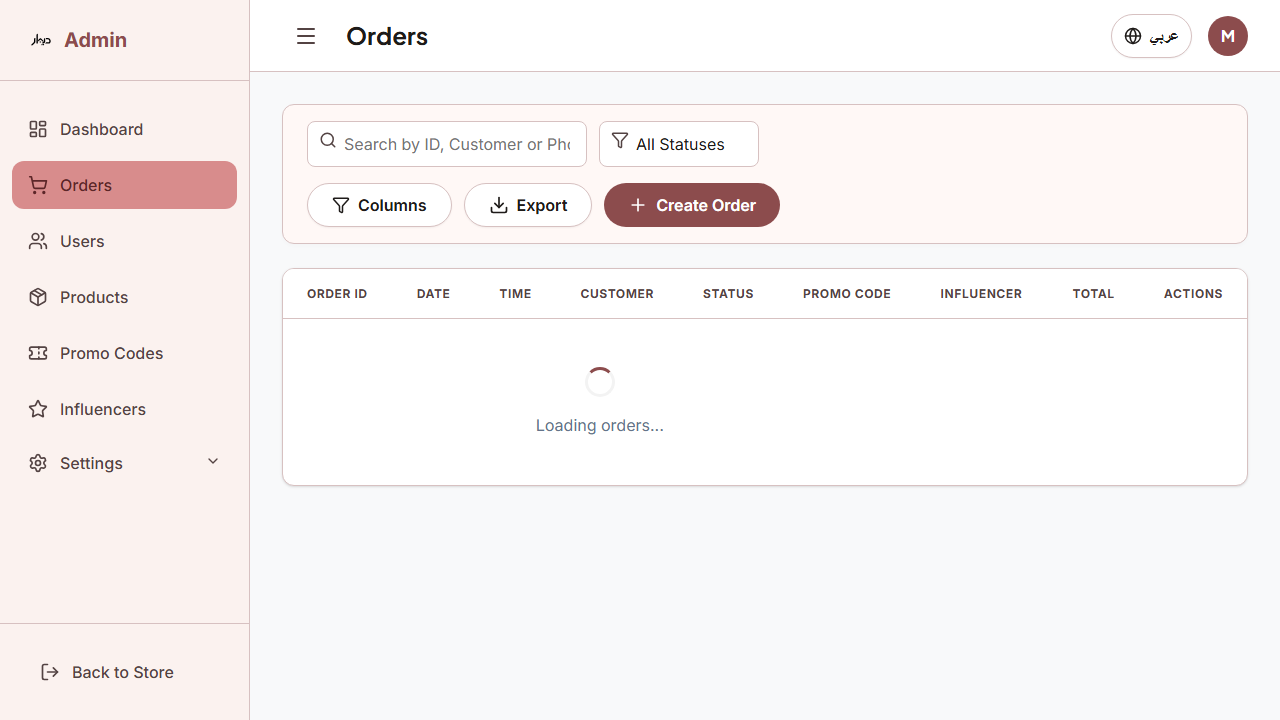
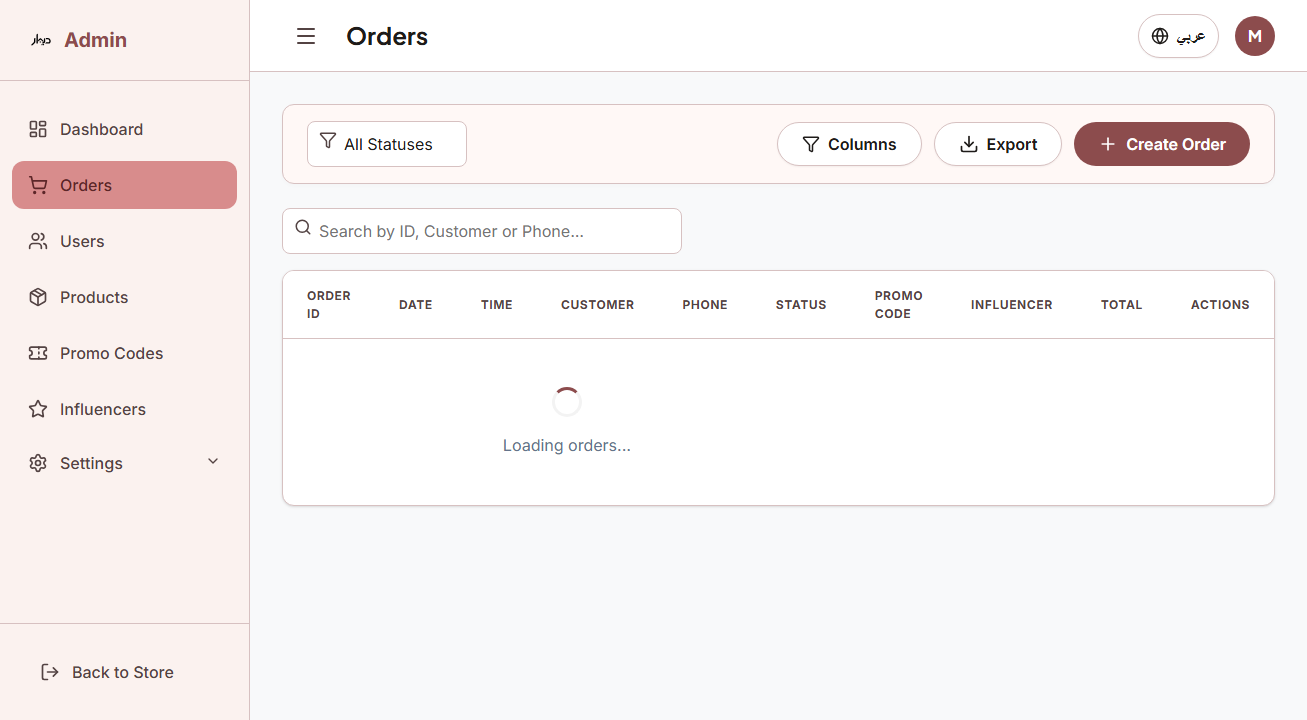
UI/UX: Orders table - separate phone column, nowrap total, fix columns dropdown bug, move search above table

diff --git a/src/pages/admin/Orders.jsx b/src/pages/admin/Orders.jsx
@@ -15,6 +15,7 @@ export default function Orders() {
     date: true,
     time: true,
     customer: true,
+    phone: true,
     status: true,
     promoCode: true,
     influencer: true,
@@ -135,18 +136,6 @@ export default function Orders() {
       <div className="admin-page-header">
         <div className="admin-page-header-left">
           <div style={{ position: 'relative' }}>
-            <Search size={18} style={{ position: 'absolute', left: '12px', top: '10px', color: 'var(--on-surface-variant)' }} />
-            <input 
-              type="text" 
-              className="input-field" 
-              placeholder={lang === 'ar' ? "بحث برقم الطلب، العميل أو رقم الهاتف" : "Search by ID, Customer or Phone..."} 
-              style={{ width: '280px', paddingLeft: '36px' }} 
-              value={searchTerm}
-              onChange={(e) => setSearchTerm(e.target.value)}
-            />
-          </div>
-
-          <div style={{ position: 'relative' }}>
             <select 
               className="input-field" 
               style={{ paddingLeft: '36px', appearance: 'none', width: '160px' }}
@@ -206,6 +195,18 @@ export default function Orders() {
         </div>
       </div>
 
+      <div style={{ marginBottom: '16px', position: 'relative' }}>
+        <Search size={18} style={{ position: 'absolute', left: '12px', top: '10px', color: 'var(--on-surface-variant)' }} />
+        <input 
+          type="text" 
+          className="input-field" 
+          placeholder={lang === 'ar' ? "بحث برقم الطلب، العميل أو رقم الهاتف" : "Search by ID, Customer or Phone..."} 
+          style={{ width: '100%', paddingLeft: '36px', maxWidth: '400px' }} 
+          value={searchTerm}
+          onChange={(e) => setSearchTerm(e.target.value)}
+        />
+      </div>
+
       <div className="admin-table-container">
         <div className="table-responsive">
           <table className="admin-table">
@@ -215,6 +216,7 @@ export default function Orders() {
                 {visibleColumns.date && <th>{t('date')}</th>}
                 {visibleColumns.time && <th>{lang === 'ar' ? 'الوقت' : 'Time'}</th>}
                 {visibleColumns.customer && <th>{t('customer')}</th>}
+                {visibleColumns.phone && <th>{lang === 'ar' ? 'رقم الهاتف' : 'Phone'}</th>}
                 {visibleColumns.status && <th>{t('status')}</th>}
                 {visibleColumns.promoCode && <th>{lang === 'ar' ? 'كود الخصم' : 'Promo Code'}</th>}
                 {visibleColumns.influencer && <th>{lang === 'ar' ? 'المؤثر' : 'Influencer'}</th>}
@@ -257,11 +259,13 @@ export default function Orders() {
                     {visibleColumns.date && <td data-label={t('date')}>{order.createdAt instanceof Date ? order.createdAt.toLocaleDateString(lang === 'ar' ? 'ar-EG' : 'en-US') : new Date(order.createdAt).toLocaleDateString(lang === 'ar' ? 'ar-EG' : 'en-US')}</td>}
                     {visibleColumns.time && <td style={{ whiteSpace: 'nowrap' }}>{order.createdAt instanceof Date ? order.createdAt.toLocaleTimeString(lang === 'ar' ? 'ar-EG' : 'en-US', {hour: '2-digit', minute:'2-digit'}) : new Date(order.createdAt).toLocaleTimeString(lang === 'ar' ? 'ar-EG' : 'en-US', {hour: '2-digit', minute:'2-digit'})}</td>}
                     {visibleColumns.customer && (
-                      <td>
-                        <div style={{ whiteSpace: 'nowrap', display: 'flex', alignItems: 'center', gap: '8px' }}>
-                          <span style={{ fontWeight: 500, color: 'var(--on-surface)' }}>{order.customer}</span>
-                          <span style={{ fontSize: '12px', color: 'var(--on-surface-variant)' }}>{order.phone}</span>
-                        </div>
+                      <td style={{ whiteSpace: 'nowrap', fontWeight: 500, color: 'var(--on-surface)' }}>
+                        {order.customer}
+                      </td>
+                    )}
+                    {visibleColumns.phone && (
+                      <td style={{ whiteSpace: 'nowrap', color: 'var(--on-surface-variant)' }}>
+                        {order.phone}
                       </td>
                     )}
                     {visibleColumns.status && <td data-label={t('status')}>
@@ -273,7 +277,7 @@ export default function Orders() {
                       {order.promoCode ? <span style={{ backgroundColor: '#0f172a', color: '#fff', padding: '4px 8px', borderRadius: '4px', fontSize: '12px', fontWeight: 600 }}>{order.promoCode}</span> : '-'}
                     </td>}
                     {visibleColumns.influencer && <td data-label={lang === 'ar' ? 'المؤثر' : 'Influencer'}>{order.influencerName || '-'}</td>}
-                    {visibleColumns.total && <td data-label={t('total')} style={{ textAlign: 'right' }}>{order.total?.toFixed(2)} EGP</td>}
+                    {visibleColumns.total && <td style={{ textAlign: 'right', fontWeight: 'bold', color: 'var(--primary)', whiteSpace: 'nowrap' }}>{order.total?.toFixed(2)} EGP</td>}
                     {visibleColumns.actions && <td data-label={lang === 'ar' ? 'الإجراءات' : 'Actions'}>
                       <div style={{ display: 'flex', gap: '8px', alignItems: 'center', justifyContent: 'flex-end', width: '100%' }}>
                         <button 

diff --git a/src/index.css b/src/index.css
@@ -2175,7 +2175,22 @@ html[dir="rtl"] .variant-circle {
   justify-content: flex-end;
 }
 
-/* Admin Page Header & Buttons Mobile Fixes */
+/* Admin Page Header & Buttons Mobile Fixes */.columns-dropdown {
+  position: absolute;
+  top: 100%;
+  right: 0;
+  margin-top: 8px;
+  background-color: var(--surface);
+  border: 1px solid var(--outline-variant);
+  border-radius: 8px;
+  padding: 12px;
+  box-shadow: 0 4px 6px -1px rgba(0,0,0,0.1), 0 2px 4px -1px rgba(0,0,0,0.06);
+  z-index: 1000;
+  min-width: 180px;
+  display: flex;
+  flex-direction: column;
+}
+
 @media (max-width: 768px) {
   .admin-page-header {
     flex-direction: column;